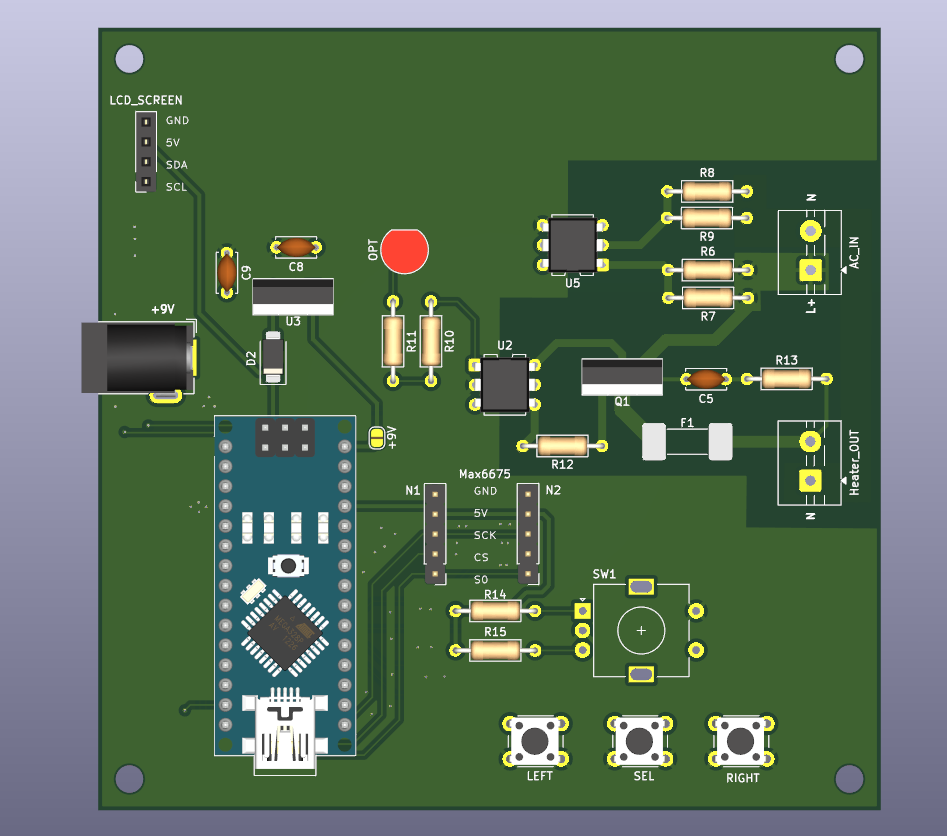
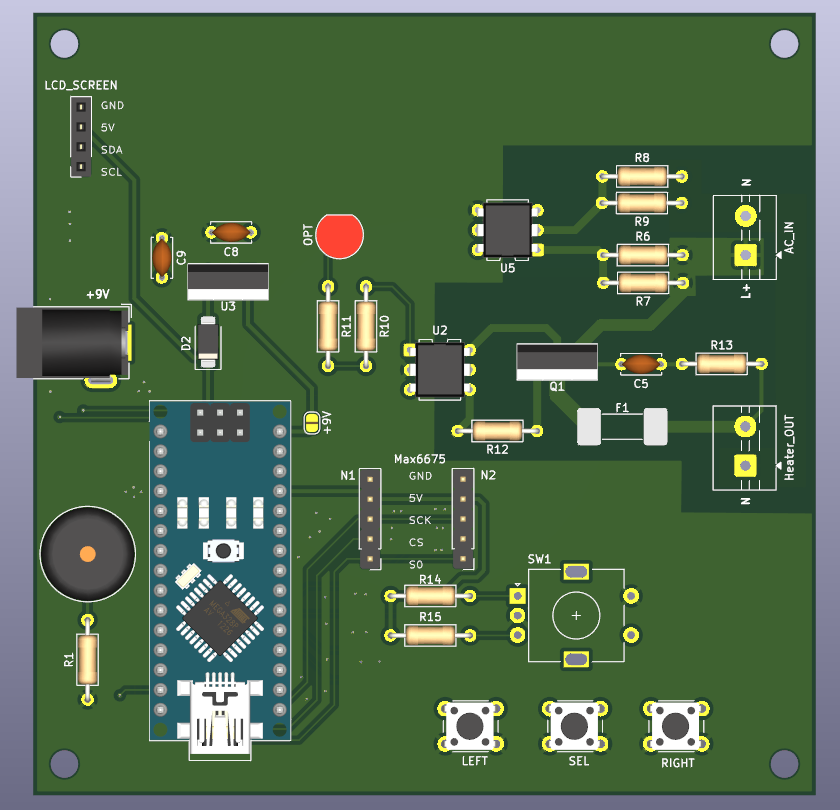
Cleaning up program, adding comments, etc...

diff --git a/PID_RampOven_Program/PID_RampOven/src/main.cpp b/PID_RampOven_Program/PID_RampOven/src/main.cpp
@@ -1,3 +1,4 @@
+#include "config.h"
 #include <Arduino.h>
 
 #include <Wire.h> 
@@ -6,28 +7,11 @@
 
 #include <max6675.h>
 
-#define Select_Button 6
-#define RIGHT_BUTTON 11
-#define LEFT_BUTTON 8
 
-#define EncButton A0
-#define OUTB A1  //DT
-#define OUTA A2  //CLK
-
-#define AC_IN 2
-#define TRIAC_OUT 7
-
-//Max6675
-#define S0 12
-#define CS1 10
-#define CS2 9
-#define SCK 13
-
-#define Buzzer 5
 
 LiquidCrystal_I2C lcd(0x27, 16, 2); // Initialize the LCD with the I2C address and dimensions
-MAX6675 thermocouple(SCK, CS1, S0);
-//MAX6675 thermocouple(SCK, CS2, S0); //Second Max6675 sensor, if needed have to change code...
+MAX6675 thermocouple(CLK, CS1, S0);
+//MAX6675 thermocouple(CLK, CS2, S0); //Second Max6675 sensor, if needed have to change code...
 
 bool isBlinking = false; // Variable to control blinking state
 int currentMode = 0; // 0 for Soak, 1 for Ramp
@@ -72,6 +56,7 @@ float deltaTime = (ActTime - lastTime);
 
   firingAngle = map(output, 0, 255, 8333, 0); // Map the output to a firing angle in microseconds (for 60Hz AC)
   //  16.67ms / 2 = 8.33ms = 8333us
+  //delay time for triac --> 0 = 100% capacity, 8333 = 0% capacity
   
   if (firingAngle > 8333) firingAngle = 8333;
   if (firingAngle < 0) firingAngle = 0;
@@ -105,24 +90,18 @@ void Ramp_SetPoint(){
 
 void Triac_Control() {
 
-  // Desactivar interrupciones brevemente para evitar rebotes
+  // Deactivate interrupts to prevent nested interrupts
   noInterrupts();
   
-  // Encender el MOC3021 inmediatamente o con un pequeño delay de seguridad
-  // (El MOC3021 es de disparo aleatorio, pero para control de fase, 
-  // queremos disparar en el ángulo correcto, no aleatorio. 
-  // Nota: El MOC3021 es "Random Phase", el MOC3023 es "Zero Cross". 
-  // Para control de fase, el MOC3021 está bien si lo disparas manualmente).
-  
-  // Esperar el ángulo calculado por el PID
+  //Wait for the firing angle delay
   delayMicroseconds(output);
   
   // Disparar el TRIAC
   digitalWrite(TRIAC_OUT, HIGH);
-  delayMicroseconds(10); // Pulso de 10us es suficiente para el MOC3021
+  delayMicroseconds(10); //10us pulse is enough for MOC3021
   digitalWrite(TRIAC_OUT, LOW);
   
-  interrupts();
+  interrupts(); //Interrupts are re-enabled at the end of the ISR
 }
 
 void updateDisplay() {
@@ -399,8 +378,6 @@ void loop() {
       lcd.clear();
       lcd.setCursor(0, 0);
       lcd.print("Finished!");
-      lcd.setCursor(0, 1);
-      lcd.print("Enjoy :)");
       
       delay(2500);
 
@@ -498,7 +475,7 @@ void loop() {
           dispTime = millis(); // Reset the display timer
           Ramp_SetPoint(); //Change Setpoint (needed for ramp)
           RemainingTime(((millis() - runTime)/60000), minutes_ramp); //Show atual time and what are we reaching
-          BothTemperature(actualTemperature, int(movingSetPoint)); // Show the actual temperature on the display
+          BothTemperature(actualTemperature, int(movingSetPoint)); // Show the actual temperature on the display and Setpoint
 
         }
 
@@ -521,6 +498,8 @@ void loop() {
       lcd.print("Soak Period Starting");
       delay(1500);
       lcd.clear();
+
+      interrupts();
 
       runTime=millis(); // Reset the run time for the soak period
 
@@ -545,16 +524,22 @@ void loop() {
       lcd.clear();
       lcd.setCursor(0, 0);
       lcd.print("Finished!");
-      lcd.setCursor(0, 1);
-      lcd.print("Enjoy :)");
 
       delay(2500);
 
       break;
   }
 
-
   modeSelected=false;
+  noInterrupts();
+
+  while(!DebounceButton()) // Wait for the user to press the button before restarting the loop
+  {
+    delay(750);
+    actualTemperature=readTemperature();
+    TemperatureDisplay(temperature);
+  }
+  
   return;
 
 }

diff --git a/PID_RampOven_Program/PID_RampOven/include/config.h b/PID_RampOven_Program/PID_RampOven/include/config.h
@@ -1,0 +1,19 @@
+
+#define Select_Button 6
+#define RIGHT_BUTTON 11
+#define LEFT_BUTTON 8
+
+#define EncButton A0
+#define OUTB A1  //DT
+#define OUTA A2  //CLK
+
+#define AC_IN 2 //Optocupler input for zero-cross detection
+#define TRIAC_OUT 7 //TRIAC control Pin
+
+//Max6675
+#define S0 12
+#define CS1 10 //CS1 for the first MAX6675 sensor
+#define CS2 9 //CS2 for the second MAX6675 sensor, if needed
+#define CLK 13
+
+#define Buzzer 5 //Self explanatory...
